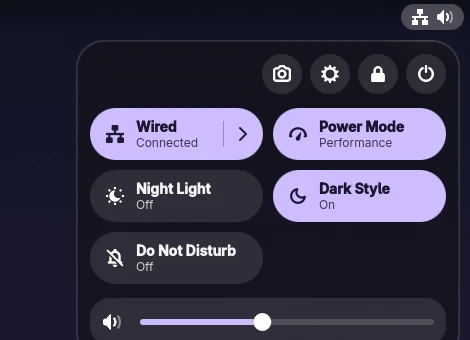
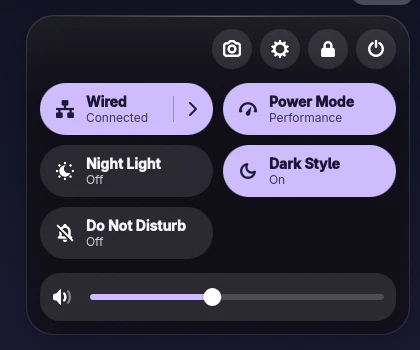
[fork] README: glass design screenshots and features
New screenshots from the Fedora 44 test VM (dark and light desktop, tiling,
launcher, calculator, notification banners and centre, on-screen
indicator, lock screen, settings window); features, first steps, commands,
settings and roadmap updated for the finished glass design.

diff --git a/README.md b/README.md
@@ -19,7 +19,7 @@
 </p>
 
 <p align="center">
-  <img src="docs/screenshots/desktop-dark.webp" alt="MuhOS desktop in dark mode: transparent menu bar, the clock island expanded into a music player, and the control centre open" width="100%">
+  <img src="docs/screenshots/desktop-dark.webp" alt="MuhOS desktop in dark mode: transparent menu bar, the clock island expanded into a music player, the control centre open and the glass dock" width="100%">
 </p>
 
 MuhOS is a desktop shell for the [Hyprland](https://hyprland.org/) compositor
@@ -32,9 +32,10 @@ Miroshnichenko.
 > [!NOTE]
 > **Pre-release.** The package builds, passes its install tests, and a full
 > GDM login session works in Fedora 44 virtual machines. It has not been
-> validated on real hardware yet. The redesign is in progress: the menu bar
-> and control centre are new; the dock, launcher, notifications and lock
-> screen still use Serpantinum's design. Expect rough edges, and please
+> validated on real hardware yet. The menu bar, control centre, dock,
+> launcher, notifications, on-screen indicator and lock screen are MuhOS's
+> own glass design; the music, network, wallpaper and settings windows still
+> use Serpantinum's. Expect rough edges, and please
 > [report them](https://github.com/Alex-Muhscience/MuhOS/issues).
 
 ## Contents
@@ -62,32 +63,45 @@ Miroshnichenko.
 
 <table>
   <tr>
-    <td width="50%"><img src="docs/screenshots/desktop-light.webp" alt="Light mode: dark menu-bar text over a light wallpaper, light control centre with the accent taken from the wallpaper"></td>
-    <td width="50%"><img src="docs/screenshots/tiling.webp" alt="Tiled windows: Files and the Decibels audio player side by side under the transparent menu bar"></td>
+    <td width="50%"><img src="docs/screenshots/desktop-light.webp" alt="Light mode: dark menu-bar text over a light wallpaper, the light control centre and the glass dock"></td>
+    <td width="50%"><img src="docs/screenshots/tiling.webp" alt="Tiled windows: the Decibels audio player and Files side by side under the transparent menu bar"></td>
   </tr>
   <tr>
     <td align="center"><b>Light mode.</b> Bar text adapts to the wallpaper; the accent comes from it too.</td>
     <td align="center"><b>Tiling.</b> Hyprland arranges windows; the menu bar stays out of the way.</td>
   </tr>
   <tr>
-    <td><img src="docs/screenshots/launcher.webp" alt="App launcher with Applications, Files and Emojis tabs"></td>
+    <td><img src="docs/screenshots/launcher.webp" alt="Spotlight-style launcher: the query muhos finds the MuhOS Settings app, the Settings action and three files"></td>
+    <td><img src="docs/screenshots/notifications.webp" alt="Three glass notification banners: a screenshot with its preview, a Firefox update with Restart and Later buttons, and a calendar reminder"></td>
+  </tr>
+  <tr>
+    <td align="center"><b>Launcher.</b> Apps, system actions, files and a calculator in one search.</td>
+    <td align="center"><b>Notifications.</b> Glass banners with pictures and action buttons.</td>
+  </tr>
+  <tr>
+    <td><img src="docs/screenshots/notification-centre.webp" alt="Notification centre: a list of notifications with Clear all and a Do Not Disturb switch, beside today's date and a month calendar"></td>
+    <td><img src="docs/screenshots/lock-screen.webp" alt="Lock screen: blurred wallpaper, a large clock, now playing and notification titles, the user's picture and a glass password field"></td>
+  </tr>
+  <tr>
+    <td align="center"><b>Notification centre.</b> Click the clock: notifications and a calendar.</td>
+    <td align="center"><b>Lock screen.</b> Notification titles only; message contents stay private.</td>
+  </tr>
+  <tr>
     <td><img src="docs/screenshots/music.webp" alt="Music popup with cover, playback controls and a ten-band equalizer with presets"></td>
+    <td><img src="docs/screenshots/settings.webp" alt="MuhOS Settings window with the red close button beside its title and sections from Welcome to About"></td>
   </tr>
   <tr>
-    <td align="center"><b>Launcher.</b> Apps, files, emoji, and commands with <code>&gt;</code>.</td>
     <td align="center"><b>Music.</b> Equalizer with presets, lyrics, output switching.</td>
-  </tr>
-  <tr>
-    <td colspan="2"><img src="docs/screenshots/settings.webp" alt="MuhOS Settings app with sections from Welcome to About"></td>
-  </tr>
-  <tr>
-    <td colspan="2" align="center"><b>Settings.</b> Display, theme, bar, dock, launcher, notifications, idle and more, all in one app.</td>
+    <td align="center"><b>Settings.</b> Display, theme, bar, dock, notifications, idle and more.</td>
   </tr>
 </table>
 
 ## Features
 
-### The MuhOS interface (new)
+### The MuhOS interface
+
+Every MuhOS surface is frosted glass: translucent panels over a blur of
+whatever is behind them, with a soft sheen and a light edge, as on macOS.
 
 <img src="docs/screenshots/control-centre.webp" alt="Control centre: pill toggles, volume slider and session buttons" width="360" align="right">
 
@@ -98,41 +112,71 @@ Miroshnichenko.
   wallpapers and light over dark ones, per screen. Scroll on the dots to
   switch workspace, on the status icons to change the volume.
 - **Clock island.** While music plays, the clock shows the cover and a small
-  live visualizer; click it to expand it into a player with progress and
-  controls. Without music, it opens the calendar.
+  live visualizer; click it to expand it into a player. Otherwise a click
+  (or a right-click at any time) opens the notification centre. A dot marks
+  unread notifications.
 - **Control centre.** GNOME's system menu in glass: toggles for Wi-Fi (or
   Wired), Bluetooth, power mode, night light, dark style and do not disturb,
   with arrows into the network and Bluetooth panels; volume and brightness
   sliders (brightness only where a backlight or DDC display exists);
   screenshot, settings and lock buttons; and a power menu with suspend,
   restart, power off and log out. Escape or a click outside closes it.
+- **Dock.** A floating glass dock: icons sit on the glass without tiles and
+  magnify under the pointer, with their neighbours growing a little too.
+  Running apps get a dot; pinned apps, app menus and auto-hide work as before.
+
+<br clear="right">
+
+<img src="docs/screenshots/calculator.webp" alt="Launcher answering 18*7+2 with 128, ready to copy" width="420" align="right">
+
+- **Launcher.** Spotlight-style: <kbd>Super</kbd>+<kbd>D</kbd> or the logo
+  opens one search field. Before you type it suggests the apps you use most;
+  as you type it shows apps (ranked by how well they match and how often you
+  use them), system actions (settings, wallpapers, control centre, clipboard,
+  screenshot, night light, dark style, do not disturb, lock, and after three
+  letters sleep, restart, power off and log out), files from your main
+  folders, and a calculator answer that <kbd>Enter</kbd> copies.
+- **Notifications.** Banners slide in at the top right with the app icon,
+  any picture sent with them (a screenshot preview, say) and action buttons.
+  They wait while you hover, swipe away to the right, and critical alerts
+  stay until dismissed. Do Not Disturb holds back everything but critical
+  alerts, which still reach the notification centre.
+- **Notification centre.** Opened from the clock: your notifications with
+  dismiss and Clear all, a Do Not Disturb switch, and today's date with a
+  month calendar that links to the full calendar and weather.
+
+<br clear="right">
+
+<img src="docs/screenshots/osd.webp" alt="Volume indicator: a glass pill with a speaker icon, a level bar and 55%" width="320" align="right">
+
+- **On-screen indicator.** A glass pill under the status icons for volume,
+  microphone and brightness (drag or scroll it to adjust) and for caps lock,
+  num lock and airplane mode.
+- **Lock screen.** The wallpaper blurred, a large clock, what is playing and
+  notification titles (never their contents), and your picture with a glass
+  password field. It authenticates through PAM (`system-auth`), so your
+  normal password works.
 - **Adwaita icons and wallpaper colours.** Symbols come from GNOME's Adwaita
   icon theme, apps show their own icons, and the accent colour is generated
   from your wallpaper. Light and dark modes are both supported.
 
-<img src="docs/screenshots/clock-island.webp" alt="Clock island expanded into a music player" width="360">
-
 <br clear="right">
+
+<img src="docs/screenshots/clock-island.webp" alt="Clock island expanded into a music player" width="420">
 
 ### From Serpantinum
 
-These come from Serpantinum and keep its design for now; MuhOS is
-redesigning them next.
+These come from Serpantinum and keep its design:
 
 | | |
 |---|---|
-| **Launcher** | Applications, files and emoji, with frequently used items first; type `>` for commands. |
 | **Music** | Player popup with cover, ten-band equalizer and presets, synced lyrics, audio output switching. |
-| **Dock** | Pinned and running apps, with app menus. |
-| **Notifications** | Popups and a notification centre, with do not disturb. |
 | **Clipboard** | History of copied text and images (cliphist), searchable. |
 | **Wallpapers and themes** | Picker for images and video wallpapers; colours generated from the wallpaper (Matugen) or one of 96 preset themes. |
 | **Screenshots** | Region or full screen, an editor, screen recording and QR-code scanning. |
 | **Network, Bluetooth, volume** | Popups for Wi-Fi networks, Bluetooth devices, and per-app volume. |
 | **Calendar and weather** | Month view and forecast. |
-| **On-screen display** | Volume, brightness, caps lock, num lock and airplane mode indicators. |
 | **Desktop widgets** | Clock, weather, music, visualizer, battery, system usage, user, image and GitHub widgets, placed with a built-in editor. |
-| **Lock screen** | Authenticates through PAM (`system-auth`), so it works with your normal password. |
 | **Night light** | Colour temperature with an automatic day/night schedule. |
 | **Idle** | Dim, lock and suspend after configurable times; a keep-awake switch. |
 | **Wellbeing** | Focus-time tracking. |
@@ -153,9 +197,10 @@ redesigning them next.
   in `~/.config/muhos/hypr/`: a small `hyprland.lua` that loads the packaged
   defaults, plus your own `user.lua`. Package updates improve the defaults
   without overwriting your changes.
-- **Its own interface.** The menu bar and control centre are rebuilt (see
-  [Features](#features)), and they open popups directly instead of starting a
-  helper script and a second Quickshell process for every click.
+- **Its own interface.** The menu bar, control centre, launcher,
+  notifications, on-screen indicator and lock screen are rebuilt and the dock
+  restyled (see [Features](#features)); they open popups directly instead of
+  starting a helper script and a second Quickshell process for every click.
 - **Every bundled asset is cleared for redistribution.** Fonts, sounds and
   images each have a recorded source and license ([ASSETS.md](ASSETS.md));
   material without one was removed or replaced with openly licensed or
@@ -255,7 +300,10 @@ folder.
   pick.
 - **Weather.** Stays off until you set a location in Settings → General →
   Location (see [Privacy](#privacy)).
-- **Apps.** Press <kbd>Super</kbd>+<kbd>D</kbd> or click the logo.
+- **Apps and search.** Press <kbd>Super</kbd>+<kbd>D</kbd> or click the logo.
+- **Notifications and calendar.** Click the clock.
+- **Quick settings.** Click the network, volume and battery icons at the top
+  right.
 
 ## Keyboard shortcuts
 
@@ -263,7 +311,7 @@ folder.
 
 | Shortcut | Action |
 |---|---|
-| <kbd>Super</kbd>+<kbd>D</kbd> | App launcher |
+| <kbd>Super</kbd>+<kbd>D</kbd> | Launcher: apps, files, actions, calculator |
 | <kbd>Super</kbd>+<kbd>Enter</kbd> | Terminal (kitty) |
 | <kbd>Super</kbd>+<kbd>E</kbd> | Files |
 | <kbd>Super</kbd>+<kbd>F</kbd> | Firefox |
@@ -324,7 +372,9 @@ Check it with `Hyprland --verify-config -c ~/.config/muhos/hypr/hyprland.lua`.
 
 | Setting | Effect |
 |---|---|
-| `"bar": { "design": "classic" }` | Use Serpantinum's original bar instead of the MuhOS menu bar. Side bars and an auto-hiding bar also use it for now. |
+| `"bar": { "design": "classic" }` | Use Serpantinum's original design everywhere: its bar, dock style, launcher, notifications, indicator and lock screen. |
+| `"bar": { "position": "left" }` or `"autohide": true` | The MuhOS menu bar does not cover side bars or auto-hiding yet, so these use Serpantinum's bar (the rest stays MuhOS). |
+| `"dock": { "hoverScale": 160, "cascadeScale": true }` | Dock magnification (percent) and whether neighbours grow too; also in Settings → Dock. |
 | `"muhos": { "solidPanels": true }` | Solid panels instead of glass (like "reduce transparency" on macOS). |
 | `"general": { "ipGeolocation": true }` | Look up your location from your IP address automatically (off by default). |
 
@@ -336,7 +386,8 @@ Check it with `Hyprland --verify-config -c ~/.config/muhos/hypr/hyprland.lua`.
 muhos msg toggle launcher        # open or close a popup: launcher, music, calendar,
                                  #   network, volume, system, wallpaper, guide, clipboard
 muhos msg workspace 3            # switch workspace (add "move" to move the window)
-muhos ipc call muhos controlCentre   # open or close the control centre
+muhos ipc call muhos controlCentre        # open or close the control centre
+muhos ipc call muhos notificationCentre   # open or close the notification centre
 muhos screenshot --full --edit   # also: --record, --scan-qr
 muhos lock                       # lock the screen
 muhos reload                     # reload the shell
@@ -388,6 +439,9 @@ muhos reload                                     # restart the shell's interface
 - **The bar looks like Serpantinum's.** The MuhOS bar is replaced by the
   classic one when the bar is set to a side or to auto-hide, or when
   `bar.design` is `"classic"`.
+- **The dock has tiles or does not magnify.** The MuhOS dock settings are
+  defaults for new users; if you changed dock settings before, set
+  floating, magnification and cascade in Settings → Dock.
 - **Dark Style does nothing.** It switches the wallpaper-generated colours
   between light and dark; with a preset theme selected in Settings → Theme,
   pick a light or dark preset there instead.
@@ -429,7 +483,7 @@ asset check and the lint check on every push.
 | Path | Contents |
 |---|---|
 | `src/quickshell/` | The shell (QML) |
-| `src/quickshell/muhos/` | MuhOS's own interface: menu bar, control centre, design tokens |
+| `src/quickshell/muhos/` | MuhOS's own interface: menu bar, control centre, launcher, notifications, indicator, lock screen, glass and design tokens |
 | `src/scripts/`, `bin/` | Helper scripts and the command-line tools |
 | `src/assets/` | Fonts, sounds, shaders, themes, translations, wallpapers |
 | `compositors/` | Default compositor configuration (Hyprland is the one MuhOS uses) |
@@ -448,7 +502,8 @@ asset check and the lint check on every push.
 - [x] Assets cleared for redistribution; MuhOS branding
 - [x] VM test harness and reproducible benchmarks
 - [x] New welcome screen, menu bar, clock island, control centre
-- [ ] Redesign the dock (magnification, Adwaita look), notifications, launcher and lock screen
+- [x] Glass design: dock with magnification, Spotlight-style launcher, notifications and notification centre, on-screen indicator, lock screen
+- [ ] Music, network, wallpaper and settings windows in the glass style
 - [ ] Desktop clock and weather widget in the new style
 - [ ] Find and fix Hyprland's memory growth from blur
 - [ ] Optional macOS-style icon theme (WhiteSur)

diff --git a/ASSETS.md b/ASSETS.md
@@ -22,8 +22,8 @@ Excluded from this inventory: nothing.
 | Status | Files | Size | Redistributable |
 |---|---:|---:|:---:|
 | generated | 27 | 135.9 KiB | yes |
-| ok | 82 | 95.5 MiB | yes |
-| **total** | **109** | **95.6 MiB** | |
+| ok | 87 | 95.5 MiB | yes |
+| **total** | **114** | **95.7 MiB** | |
 
 ## Assets
 
@@ -57,14 +57,19 @@ Excluded from this inventory: nothing.
 | `src/assets/shaders/widgets/pacman.frag.qsb` | shader-binary | 2.6 KiB | generated | AGPL-3.0-or-later (compiled from .frag) |  | Rebuild with qsb during RPM build | `ac77565dcb38` |
 | `src/assets/shaders/widgets/widget_outline.frag.qsb` | shader-binary | 4.1 KiB | generated | AGPL-3.0-or-later (compiled from .frag) |  | Rebuild with qsb during RPM build | `1981dcdd25a1` |
 | `docs/assets/muhos-tile.svg` | image | 1014 B | ok | AGPL-3.0-or-later (MuhOS mark on a tile… |  |  | `0d3b9593507a` |
-| `docs/screenshots/clock-island.webp` | image | 3.3 KiB | ok | AGPL-3.0-or-later (screenshots of MuhOS… |  |  | `e38335860776` |
-| `docs/screenshots/control-centre.webp` | image | 10.7 KiB | ok | AGPL-3.0-or-later (screenshots of MuhOS… |  |  | `b310c888a40d` |
-| `docs/screenshots/desktop-dark.webp` | image | 27.7 KiB | ok | AGPL-3.0-or-later (screenshots of MuhOS… |  |  | `5e902dc68980` |
-| `docs/screenshots/desktop-light.webp` | image | 26.7 KiB | ok | AGPL-3.0-or-later (screenshots of MuhOS… |  |  | `9c506ced23b2` |
-| `docs/screenshots/launcher.webp` | image | 13.6 KiB | ok | AGPL-3.0-or-later (screenshots of MuhOS… |  |  | `a6f1531b4d4e` |
+| `docs/screenshots/calculator.webp` | image | 4.8 KiB | ok | AGPL-3.0-or-later (screenshots of MuhOS… |  |  | `2c756be9c170` |
+| `docs/screenshots/clock-island.webp` | image | 3.6 KiB | ok | AGPL-3.0-or-later (screenshots of MuhOS… |  |  | `ab34bb3914d8` |
+| `docs/screenshots/control-centre.webp` | image | 11.3 KiB | ok | AGPL-3.0-or-later (screenshots of MuhOS… |  |  | `520f59d778a2` |
+| `docs/screenshots/desktop-dark.webp` | image | 29.7 KiB | ok | AGPL-3.0-or-later (screenshots of MuhOS… |  |  | `1480f3cf2fa2` |
+| `docs/screenshots/desktop-light.webp` | image | 27.8 KiB | ok | AGPL-3.0-or-later (screenshots of MuhOS… |  |  | `4c879daa7a58` |
+| `docs/screenshots/launcher.webp` | image | 16.8 KiB | ok | AGPL-3.0-or-later (screenshots of MuhOS… |  |  | `e59ef2761af2` |
+| `docs/screenshots/lock-screen.webp` | image | 30.1 KiB | ok | AGPL-3.0-or-later (screenshots of MuhOS… |  |  | `36bd39571822` |
 | `docs/screenshots/music.webp` | image | 18.4 KiB | ok | AGPL-3.0-or-later (screenshots of MuhOS… |  |  | `e1f72891452b` |
-| `docs/screenshots/settings.webp` | image | 26.1 KiB | ok | AGPL-3.0-or-later (screenshots of MuhOS… |  |  | `543a4407553e` |
-| `docs/screenshots/tiling.webp` | image | 33.4 KiB | ok | AGPL-3.0-or-later (screenshots of MuhOS… |  |  | `f2e2f9093530` |
+| `docs/screenshots/notification-centre.webp` | image | 28.4 KiB | ok | AGPL-3.0-or-later (screenshots of MuhOS… |  |  | `1badc610004b` |
+| `docs/screenshots/notifications.webp` | image | 14.4 KiB | ok | AGPL-3.0-or-later (screenshots of MuhOS… |  |  | `802ac2769694` |
+| `docs/screenshots/osd.webp` | image | 1.5 KiB | ok | AGPL-3.0-or-later (screenshots of MuhOS… |  |  | `0ca7a404e8c2` |
+| `docs/screenshots/settings.webp` | image | 24.6 KiB | ok | AGPL-3.0-or-later (screenshots of MuhOS… |  |  | `20c776d0305a` |
+| `docs/screenshots/tiling.webp` | image | 34.5 KiB | ok | AGPL-3.0-or-later (screenshots of MuhOS… |  |  | `a21a84722a2d` |
 | `src/assets/fonts/0xProtoNerdFont-Regular.ttf` | font | 2.3 MiB | ok | OFL-1.1 — 0xProto-LICENSE.txt | 0xType Project Authors (https://github.com/0xType) |  | `014921bcefcb` |
 | `src/assets/fonts/3270NerdFont-Regular.ttf` | font | 2.5 MiB | ok | OFL-1.1 — 3270-LICENSE.txt | This Font Software is licensed under the SIL Open Font License, Version 1.1. This license… |  | `78540c388022` |
 | `src/assets/fonts/AdwaitaMonoNerdFont-Regular.ttf` | font | 3.8 MiB | ok | OFL-1.1 (embedded; copyright in each fi… | This font software is licensed under the SIL Open Font License, Version 1.1. This license… |  | `bcd970a74682` |
